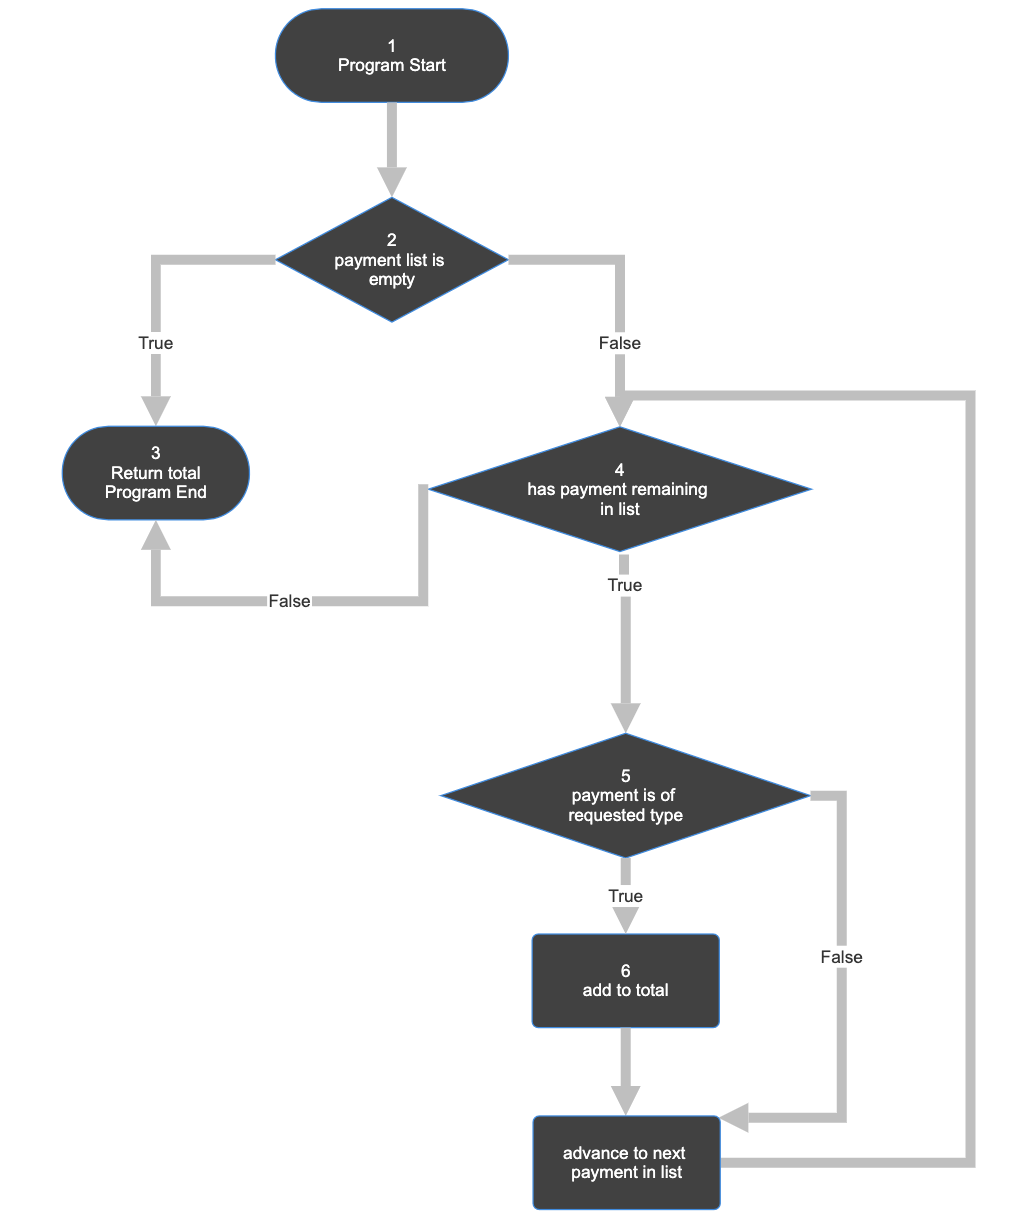
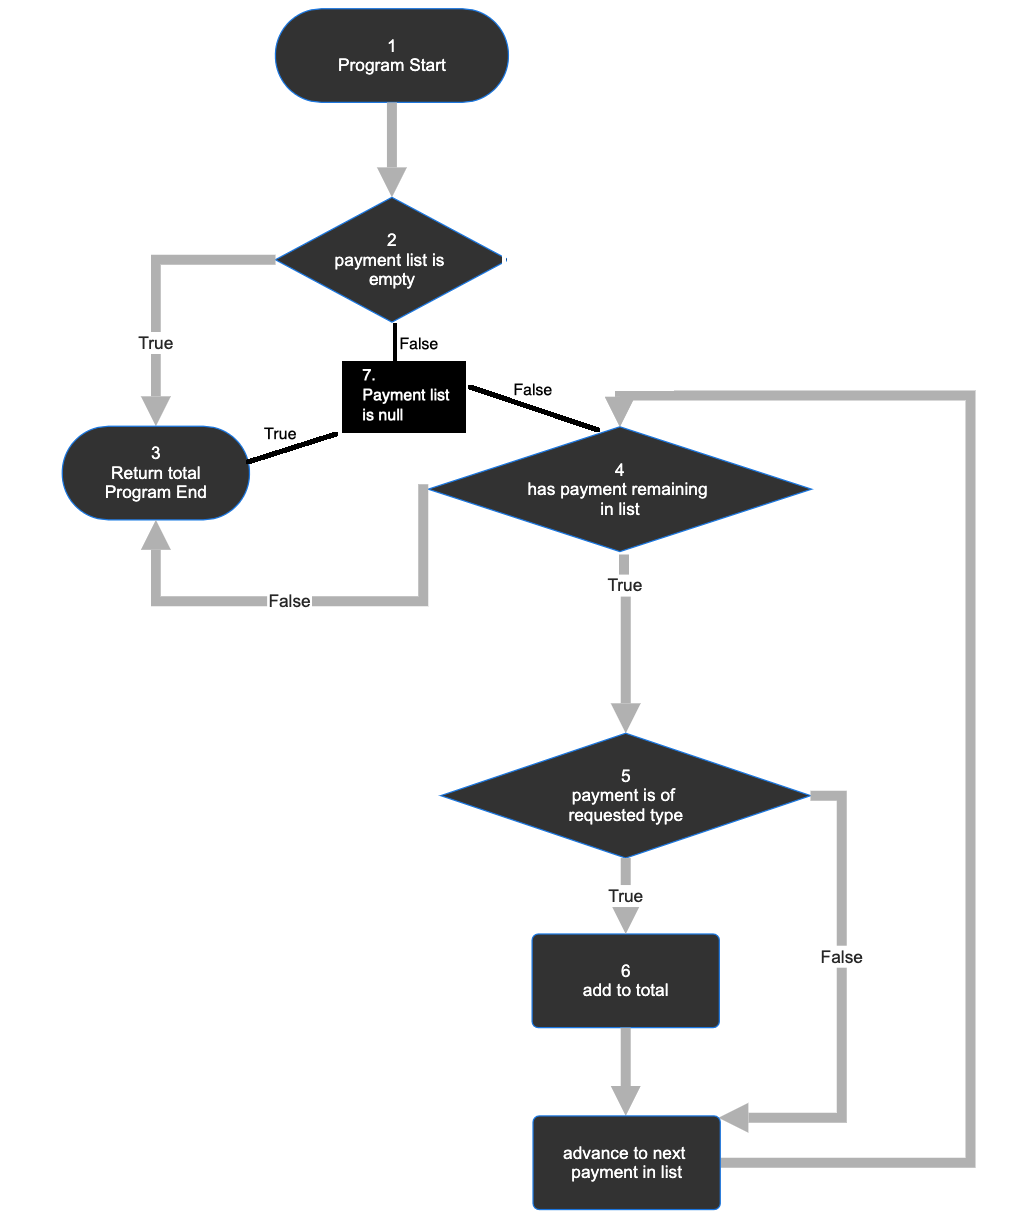
Modify code and photos

Changed region(s): [[0.2436, 0.2492, 0.5481, 0.4049], [0.4872, 0.1869, 0.6395, 0.3115], [0.5481, 0.3426, 0.5786, 0.3738]]

diff --git a/src/main/java/pizzashop/service/PizzaService.java b/src/main/java/pizzashop/service/PizzaService.java
@@ -13,30 +13,37 @@ public class PizzaService {
     private MenuRepository menuRepo;
     private PaymentRepository payRepo;
 
-    public PizzaService(MenuRepository menuRepo, PaymentRepository payRepo){
-        this.menuRepo=menuRepo;
-        this.payRepo=payRepo;
+    public PizzaService(MenuRepository menuRepo, PaymentRepository payRepo) {
+        this.menuRepo = menuRepo;
+        this.payRepo = payRepo;
     }
 
-    public List<MenuDataModel> getMenuData(){return menuRepo.getMenu();}
+    public List<MenuDataModel> getMenuData() {
+        return menuRepo.getMenu();
+    }
 
-    public List<Payment> getPayments(){return payRepo.getAll(); }
+    public List<Payment> getPayments() {
+        return payRepo.getAll();
+    }
 
-    public void addPayment(int table, PaymentType type, double amount){
-        Payment payment= new Payment(table, type, amount);
+    public void addPayment(int table, PaymentType type, double amount) {
+        Payment payment = new Payment(table, type, amount);
         payRepo.add(payment);
     }
 
-    public double getTotalAmount(PaymentType type){
-        double total=0.0f;
-        List<Payment> payments=getPayments();
+    public double getTotalAmount(PaymentType type) {
+        double total = 0.0f;
+        List<Payment> payments = getPayments();
 
-        if ((payments==null) ||(payments.size()==0))
+        if ((payments.size() == 0))
             return total;
 
-        for (Payment payment : payments){
+        if ((payments == null))
+            return total;
+
+        for (Payment payment : payments) {
             if (payment.getType().equals(type))
-                total+=payment.getAmount();
+                total += payment.getAmount();
         }
         return total;
     }

diff --git a/src/test/java/pizzashop/service/PizzaServiceTest.java b/src/test/java/pizzashop/service/PizzaServiceTest.java
@@ -3,13 +3,9 @@ package pizzashop.service;
 import static org.junit.jupiter.api.Assertions.assertEquals;
 import static org.mockito.Mockito.when;
 
-import java.io.IOException;
-import java.nio.file.Files;
-import java.nio.file.Paths;
 import java.util.Collections;
 import java.util.List;
 
-import org.junit.jupiter.api.BeforeEach;
 import org.junit.jupiter.api.DisplayName;
 import org.junit.jupiter.api.Test;
 import org.junit.jupiter.api.extension.ExtendWith;
@@ -84,7 +80,7 @@ public class PizzaServiceTest {
     @DisplayName("Two non-matching payments")
     public void getTotalTwoNonMatchingPayments() {
         List<Payment> payments = List.of(
-                new Payment(1, PaymentType.Cash, 10000000.0),
+                new Payment(1, PaymentType.Cash, 1000000.0),
                 new Payment(1, PaymentType.Cash, 1000000.0));
 
         when(paymentRepository.getAll()).thenReturn(payments);
